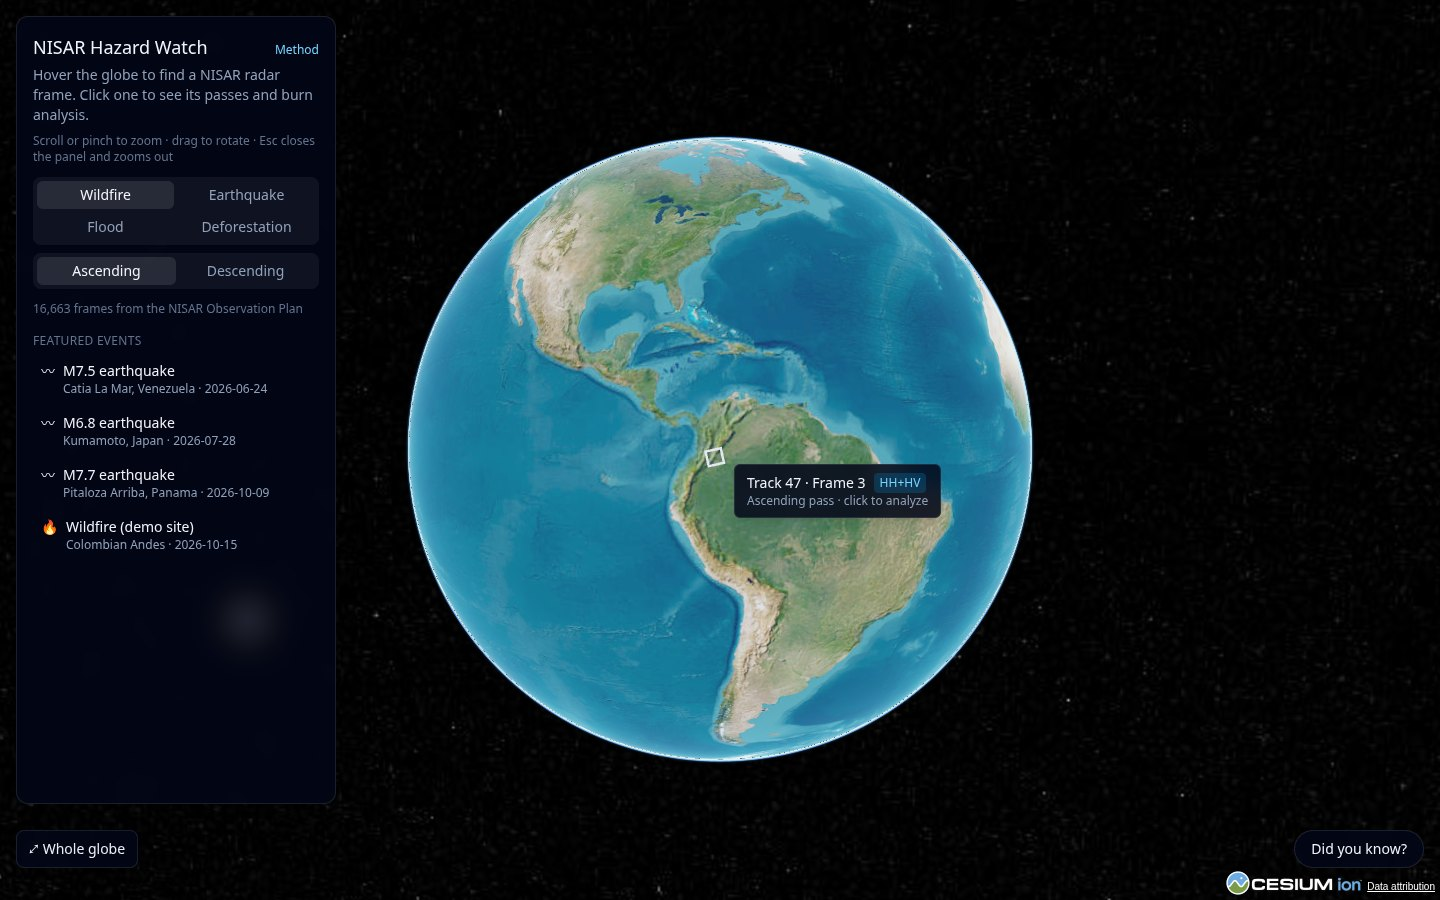
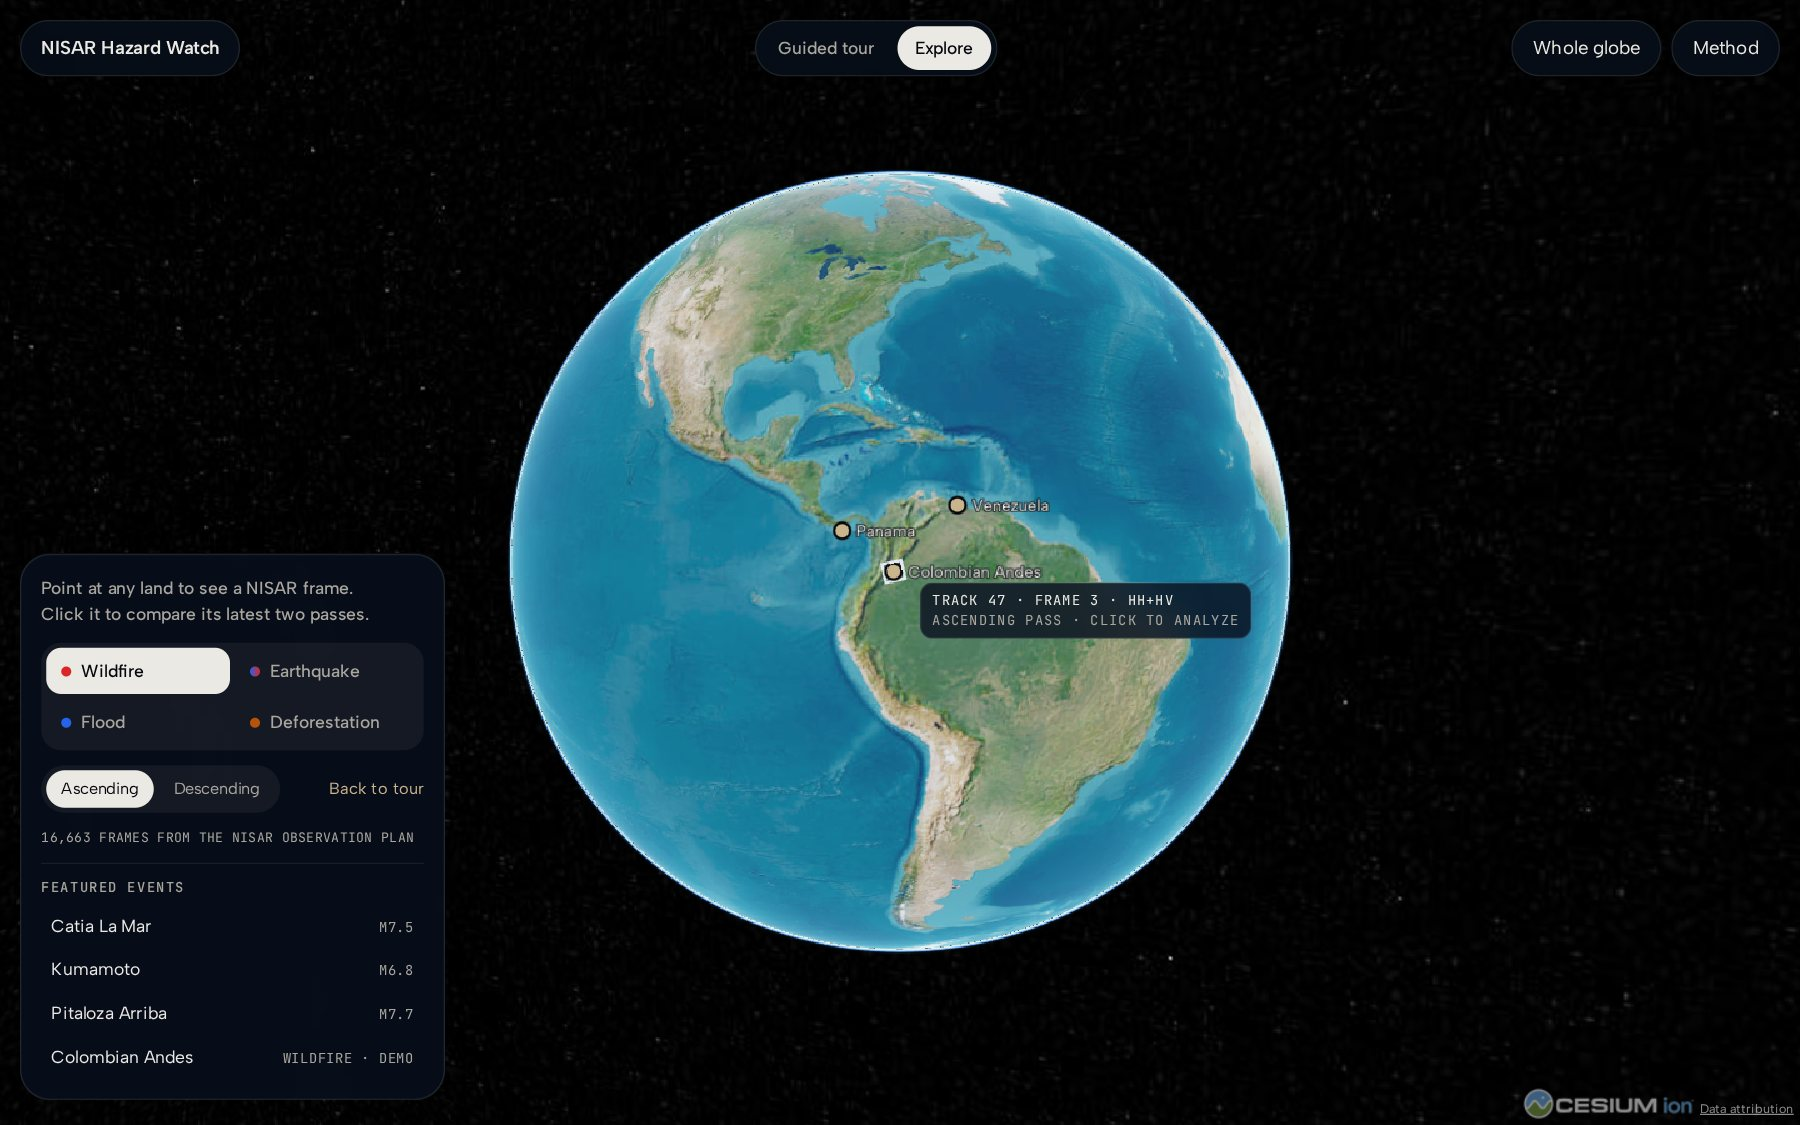
docs: refresh the README with v4 screenshots and a visual tour
- New screenshots of the landing story, the explorer (intro, tour, hover, fringes, wildfire) and
  the method page, rendered with hardware WebGL; the v3 screenshots are removed.
- The README opens on the landing hero and walks the story, the explorer, the four hazards and the
  method before the reference sections; gold call-to-action badges.
- Fixed stale credits (the reflector photo and eruption time-lapse are gone) and the roadmap.

diff --git a/README.md b/README.md
@@ -1,38 +1,47 @@
 <div align="center">
 
+<img src="docs/screenshots/landing-hero.jpg" alt="NISAR Hazard Watch landing page: the headline &quot;Earth, without the clouds.&quot; over a 3D Earth with its cloud cover" width="100%">
+
 # NISAR Hazard Watch
 
-**See how Earth changes, through clouds, smoke and darkness.**
+**Earth, without the clouds.**
 
-NASA-ISRO NISAR radar on an interactive 3D globe: burn scars, floods, forest loss and earthquake
-ground motion, from real satellite passes to maps anyone can read.
+NASA-ISRO NISAR radar sees the ground through cloud, smoke and night. NISAR Hazard Watch turns its
+passes into maps anyone can read: burn scars, floods, forest loss and earthquake ground motion, on
+an interactive 3D globe.
+
+[![Live demo](https://img.shields.io/badge/live%20demo-open%20the%20globe-c9b48b?style=for-the-badge&labelColor=04070e)](https://nisar-hazard-watch.vercel.app)
+[![Method](https://img.shields.io/badge/method-%26%20validation-c9b48b?style=for-the-badge&labelColor=04070e)](https://nisar-hazard-watch.vercel.app/method)
 
 [![CI](https://github.com/cris-eci/nisar-hazard-watch/actions/workflows/ci.yml/badge.svg)](https://github.com/cris-eci/nisar-hazard-watch/actions/workflows/ci.yml)
-[![Live demo](https://img.shields.io/badge/demo-live-0ea5e9?logo=vercel&logoColor=white)](https://nisar-hazard-watch.vercel.app)
 ![TypeScript](https://img.shields.io/badge/TypeScript-strict-3178c6?logo=typescript&logoColor=white)
 ![React](https://img.shields.io/badge/React-19-149eca?logo=react&logoColor=white)
 ![CesiumJS](https://img.shields.io/badge/CesiumJS-3D%20globe-6caddf)
+![three.js](https://img.shields.io/badge/three.js-landing%20scene-04070e?logo=threedotjs&logoColor=white)
 ![NASA Space Apps 2026](https://img.shields.io/badge/NASA%20Space%20Apps-2026-0b3d91)
 
 **[Live demo](https://nisar-hazard-watch.vercel.app)** ·
+**[Guided tour](https://nisar-hazard-watch.vercel.app/explore)** ·
 **[Method & validation](https://nisar-hazard-watch.vercel.app/method)** ·
 **[API contract](docs/analysis-api.md)**
-
-![Coseismic interferogram fringes of the M7.5 Venezuela earthquake on the 3D globe](docs/screenshots/earthquake-fringes.jpg)
 
 </div>
 
 > [!IMPORTANT]
-> **Prototype status.** Everything that says _where_ and _when_ is real NASA, ASF and USGS data.
-> The analysis results (burn maps, flood extents, ground motion, validation figures) are
+> **Prototype status.** Everything that says _where_ and _when_ is real NASA, ASF and USGS data:
+> the 16,663 frame outlines, every satellite pass, the earthquakes and their radar pairs. The
+> analysis drawn on top (burn maps, flood extents, ground motion, validation figures) is
 > **simulated demo data**, labelled **Demo data** in the app, until the
 > [NISAC_Data_Lab](#architecture) pipeline is connected. See [What is real and what is demo](#what-is-real-and-what-is-demo).
 
 ## Contents
 
+- [The story](#the-story)
+- [The explorer](#the-explorer)
+- [Four hazards, one contract](#four-hazards-one-contract)
+- [Method & validation](#method--validation)
 - [Why radar](#why-radar)
 - [Features](#features)
-- [Screenshots](#screenshots)
 - [What is real and what is demo](#what-is-real-and-what-is-demo)
 - [Featured events](#featured-events)
 - [Architecture](#architecture)
@@ -44,6 +53,98 @@ ground motion, from real satellite passes to maps anyone can read.
 - [Roadmap](#roadmap)
 - [Data sources and credits](#data-sources-and-credits)
 
+## The story
+
+The landing page is one scroll over a fixed Earth. The clouds dissolve, NISAR's orbit appears while
+a counter climbs to twelve days, then the planet turns to the M7.5 epicentre in Venezuela and shows
+what two passes can measure.
+
+<table>
+  <tr>
+    <td width="50%"><img src="docs/screenshots/landing-orbit.jpg" alt="The planet with NISAR's gold orbit and a counter reading 12 days: every place, every twelve days"></td>
+    <td width="50%"><img src="docs/screenshots/landing-epicentre.jpg" alt="The planet turned to the Venezuela epicentre, a callout showing demo interferogram fringes and 31.3 cm of peak motion"></td>
+  </tr>
+  <tr>
+    <td align="center"><b>Every place, every twelve days</b><br><sub>NISAR's orbit and its 12-day repeat cycle</sub></td>
+    <td align="center"><b>Down to the centimetre</b><br><sub>The Venezuela M7.5 epicentre, demo fringes</sub></td>
+  </tr>
+</table>
+
+<img src="docs/screenshots/landing-compare.jpg" alt="Drag-to-compare view of North Dakota farmland: NISAR radar on the left shows every field and gold centre-pivot circles, Sentinel-2 on the right is mostly cloud" width="100%">
+
+<p align="center"><b>Same fields, one day apart.</b> Drag across NISAR radar and a cloudy Sentinel-2 view of North Dakota.<br><sub>NISAR first image (NASA/JPL-Caltech) and NASA HLS (contains modified Copernicus Sentinel-2 data).</sub></p>
+
+## The explorer
+
+A real globe of every NISAR frame. Start with a two-minute guided tour of four events, or explore
+freely: point at any land to see its frame, click to compare its latest two passes.
+
+<img src="docs/screenshots/explorer-tour.jpg" alt="Guided tour on the Venezuela M7.5 earthquake: the real NISAR frame outline in gold, demo line-of-sight displacement lobes on the coast, and the panel with 31.3 cm of peak motion" width="100%">
+
+<p align="center"><b>Guided tour, event 1 of 4:</b> the M7.5 earthquake at Catia La Mar, Venezuela, on its real NISAR frame (track 162 A, frame 7).</p>
+
+<table>
+  <tr>
+    <td width="50%"><img src="docs/screenshots/explorer-intro.jpg" alt="Explorer intro card over the globe: four real events, two minutes, with Start the tour and Explore freely"></td>
+    <td width="50%"><img src="docs/screenshots/explorer-hover.jpg" alt="Explore mode: hovering the globe shows track 47, frame 3, HH+HV, with gold markers on the featured events"></td>
+  </tr>
+  <tr>
+    <td align="center"><b>Four real events, two minutes</b><br><sub>The intro on a first visit</sub></td>
+    <td align="center"><b>16,663 frames, hover to inspect</b><br><sub>Real outlines from the NISAR Observation Plan</sub></td>
+  </tr>
+  <tr>
+    <td width="50%"><img src="docs/screenshots/explorer-fringes.jpg" alt="Interferogram fringes of the Venezuela earthquake draped on the globe, one colour cycle per 11.9 cm of motion"></td>
+    <td width="50%"><img src="docs/screenshots/explorer-wildfire.jpg" alt="Burn analysis on track 47, frame 3: severity classes on the globe, hectares by class, and the real pass dates with upcoming passes in gold"></td>
+  </tr>
+  <tr>
+    <td align="center"><b>Interferogram fringes</b><br><sub>Count the rings: 11.9 cm of motion each (demo)</sub></td>
+    <td align="center"><b>Burn severity and live passes</b><br><sub>Hectares by class (demo); pass dates from the live plan</sub></td>
+  </tr>
+</table>
+
+## Four hazards, one contract
+
+Two families of analysis share one API contract: **surface change** from GCOV backscatter
+(hectares) and **ground motion** from GUNW interferograms (centimetres). Each hazard is one entry in
+a registry; the UI never hard-codes a hazard.
+
+<table>
+  <tr>
+    <td width="25%"><img src="docs/screenshots/explorer-wildfire.jpg" alt="Wildfire burn severity"></td>
+    <td width="25%"><img src="docs/screenshots/explorer-flood.jpg" alt="Flood extent"></td>
+    <td width="25%"><img src="docs/screenshots/explorer-deforestation.jpg" alt="Forest loss"></td>
+    <td width="25%"><img src="docs/screenshots/explorer-tour.jpg" alt="Earthquake displacement"></td>
+  </tr>
+  <tr>
+    <td align="center"><b>Wildfire</b><br><sub>HV drop · burn severity</sub></td>
+    <td align="center"><b>Flood</b><br><sub>HH drop · open water</sub></td>
+    <td align="center"><b>Forest loss</b><br><sub>HV drop · cleared canopy</sub></td>
+    <td align="center"><b>Earthquake</b><br><sub>GUNW · line-of-sight cm</sub></td>
+  </tr>
+</table>
+
+<p align="center"><sub>All four analyses are demo data until the pipeline runs on them; flood and forest loss sit behind the hazard flag.</sub></p>
+
+## Method & validation
+
+Four steps per hazard, told on the explorer's own demo rasters, then how each result is checked
+against independent data.
+
+<table>
+  <tr>
+    <td width="50%"><img src="docs/screenshots/method-fringes.jpg" alt="Method step 2 of 4 for earthquakes: convert phase to motion, with fringes beside the displacement map"></td>
+    <td width="50%"><img src="docs/screenshots/method-severity.jpg" alt="Method step 4 of 4 for wildfires: classify, with the severity classes over the after-fire HV image"></td>
+  </tr>
+  <tr>
+    <td align="center"><b>Convert phase to motion</b><br><sub>d = −λ / 4π × φ</sub></td>
+    <td align="center"><b>Classify the burn</b><br><sub>≤ −2 · −4 · −6 dB</sub></td>
+  </tr>
+</table>
+
+<img src="docs/screenshots/method-validation.jpg" alt="Validation grid: 87 % of FIRMS detections inside the scar, 0.71 kappa against HLS dNBR, 1.8 cm RMS against GNSS, all labelled demo values" width="100%">
+
+<p align="center"><b>Checked against independent data:</b> NASA FIRMS, HLS dNBR and GNSS stations.<br><sub>Demo values until real runs exist; the comparison method is final.</sub></p>
+
 ## Why radar
 
 |                                   |                                                                                                           |
@@ -54,6 +155,8 @@ ground motion, from real satellite passes to maps anyone can read.
 
 ## Features
 
+- **A scroll-driven landing** over a three.js Earth: the clouds dissolve, the orbit appears, the
+  planet turns to an epicentre; a drag-to-compare radar vs. optical view; reduced motion honoured.
 - **3D globe of all 16,663 NISAR frames.** Hover to find a frame, click to fly to it. Frames come
   from NASA's NISAR Observation Plan and are hit-tested locally, so hovering is instant.
 - **Two families of analysis behind one contract**
@@ -65,24 +168,11 @@ ground motion, from real satellite passes to maps anyone can read.
 - **Satellite passes per frame**, live from the Observation Plan, flagging the HH+HV passes that
   burn mapping needs.
 - **Shareable views**: `/explore?event=venezuela-2026`, `/explore?frame=47-3`.
-- **Guided tour**: an intro card, a step-by-step tour of the featured events, then free
-  exploration; plus a method & validation page.
+- **Guided tour**: an intro card, a step-by-step tour of the featured events (arrow keys work
+  too), then free exploration.
+- **Method & validation page**: the four steps per hazard on the app's own rasters, validation
+  sources and limits.
 - **Multi-hazard feature flag**: `VITE_ENABLED_HAZARDS` turns hazards on and off per deployment.
-
-## Screenshots
-
-|                                                                                        |                                                                                |
-| :------------------------------------------------------------------------------------: | :----------------------------------------------------------------------------: |
-|                     ![Landing page](docs/screenshots/landing.jpg)                      |         ![Welcome dialog over the globe](docs/screenshots/welcome.jpg)         |
-|                                    **Landing page**                                    |                           **Welcome and onboarding**                           |
-|             ![Hovering a NISAR frame](docs/screenshots/explorer-hover.jpg)             |           ![Method and validation page](docs/screenshots/method.jpg)           |
-|                       **16,663 NISAR frames, hover to inspect**                        |                            **Method & validation**                             |
-| ![Earthquake line-of-sight displacement](docs/screenshots/earthquake-displacement.jpg) | ![Earthquake interferometric fringes](docs/screenshots/earthquake-fringes.jpg) |
-|                          **Earthquake: displacement (demo)**                           |                         **Earthquake: fringes (demo)**                         |
-|           ![Wildfire burn severity](docs/screenshots/wildfire-severity.jpg)            |       ![After-fire HV radar image](docs/screenshots/wildfire-after.jpg)        |
-|                           **Wildfire: burn severity (demo)**                           |                    **Wildfire: after-fire HV image (demo)**                    |
-|                      ![Flood extent](docs/screenshots/flood.jpg)                       |               ![Forest loss](docs/screenshots/deforestation.jpg)               |
-|                                **Flood extent (demo)**                                 |                             **Forest loss (demo)**                             |
 
 ## What is real and what is demo
 
@@ -212,7 +302,7 @@ tests/                Unit (Vitest) and E2E (Playwright, page objects)
 - [x] Globe with all NISAR frames and live passes
 - [x] Multi-hazard analysis contract (surface change + ground motion) and feature flag
 - [x] Featured events with real coseismic NISAR pairs
-- [x] Landing, method & validation, onboarding
+- [x] Landing, method & validation and explorer in one visual system (v4), with a guided tour
 - [ ] Real GCOV burn analysis from the pipeline, validated against NASA FIRMS and HLS
 - [ ] Real GUNW ground motion for Kumamoto and Venezuela, validated against GNSS
 - [ ] A real wildfire event inside the NISAR data window
@@ -226,9 +316,9 @@ tests/                Unit (Vitest) and E2E (Playwright, page objects)
 - **NASA NISAR Observation Plan** (frames and planned passes).
 - **USGS** [earthquake catalogue](https://earthquake.usgs.gov/earthquakes/search/).
 - **NASA FIRMS** and **HLS** (planned validation sources).
-- Landing pictures, all public domain: NISAR's first image of North Dakota and the reflector
-  deployment (NASA/JPL-Caltech), the NISAR eruption time-lapse (NASA Scientific Visualization
-  Studio), Blue Marble and cloud imagery (NASA Visible Earth), via Wikimedia Commons and NASA.
+- Landing pictures, all public domain: NISAR's first image of North Dakota and the artist's
+  concept of NISAR (NASA/JPL-Caltech); Blue Marble and cloud imagery (NASA Visible Earth). Optical
+  view: NASA HLS, contains modified Copernicus Sentinel-2 data (2025), via NASA Worldview.
 - Base imagery © Esri, Maxar, Earthstar Geographics. Globe by [CesiumJS](https://cesium.com/platform/cesiumjs/).
 
 Built for the **NASA International Space Apps Challenge 2026** (_NISAR surface change_ challenge).
